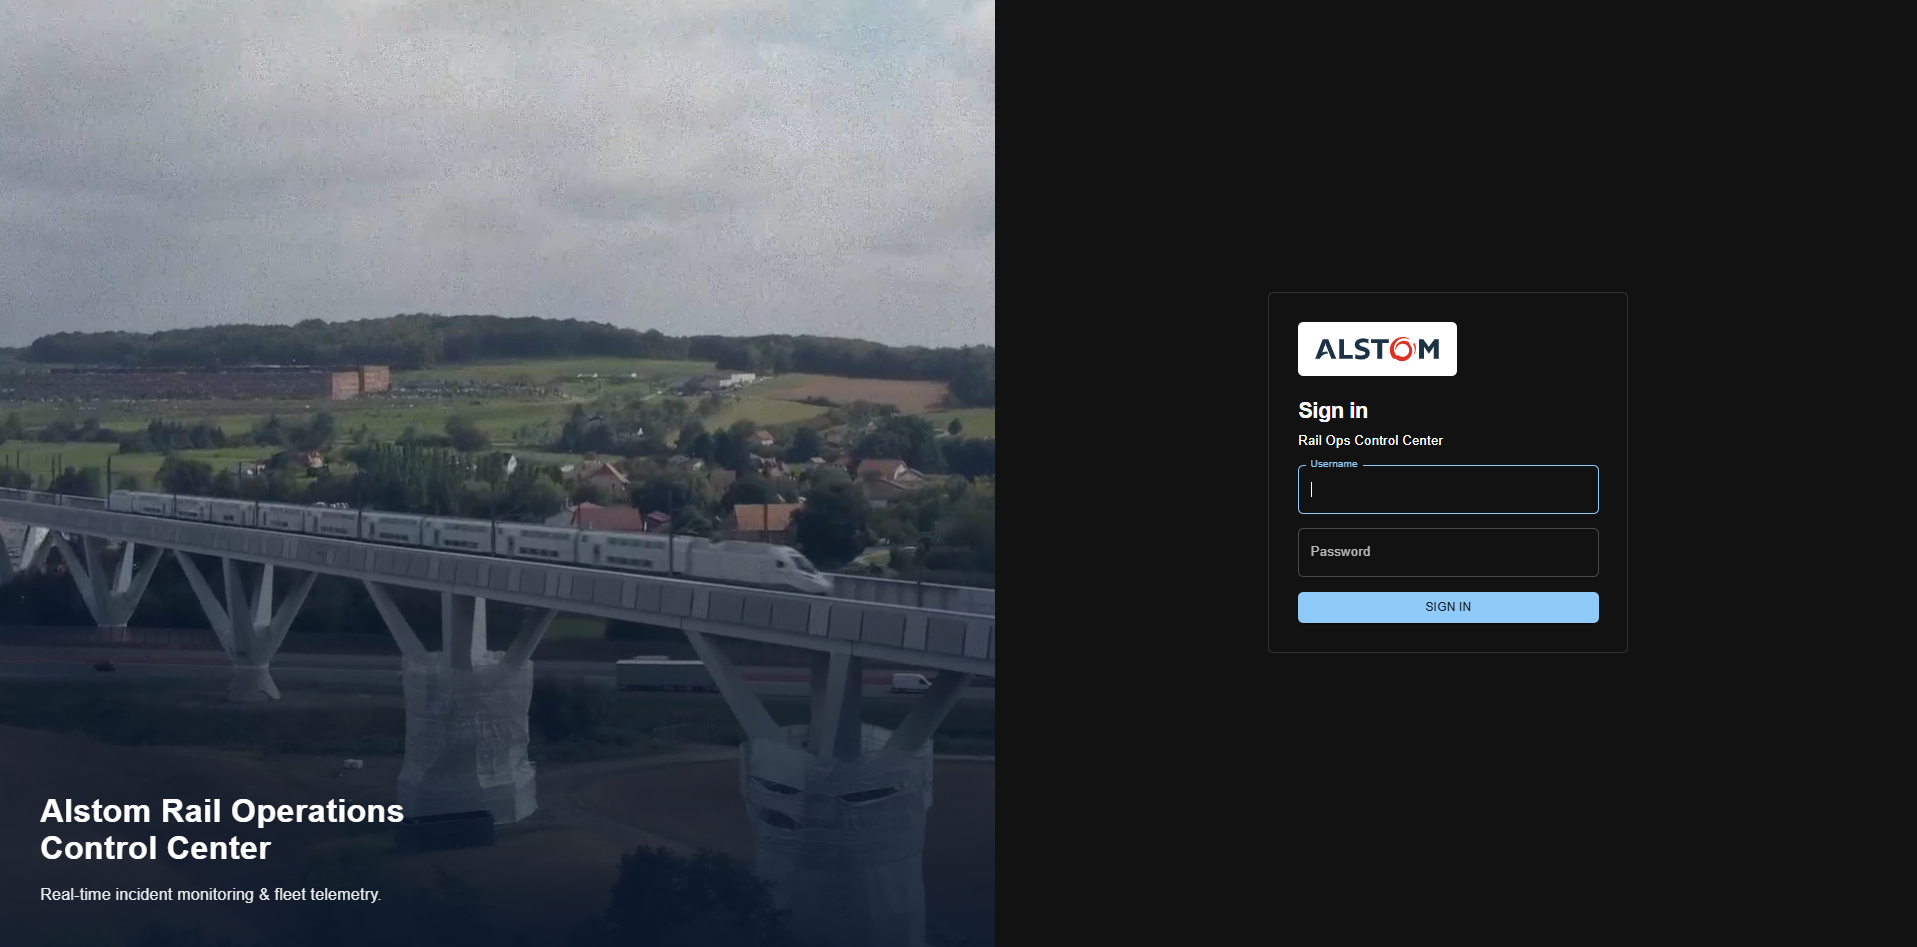
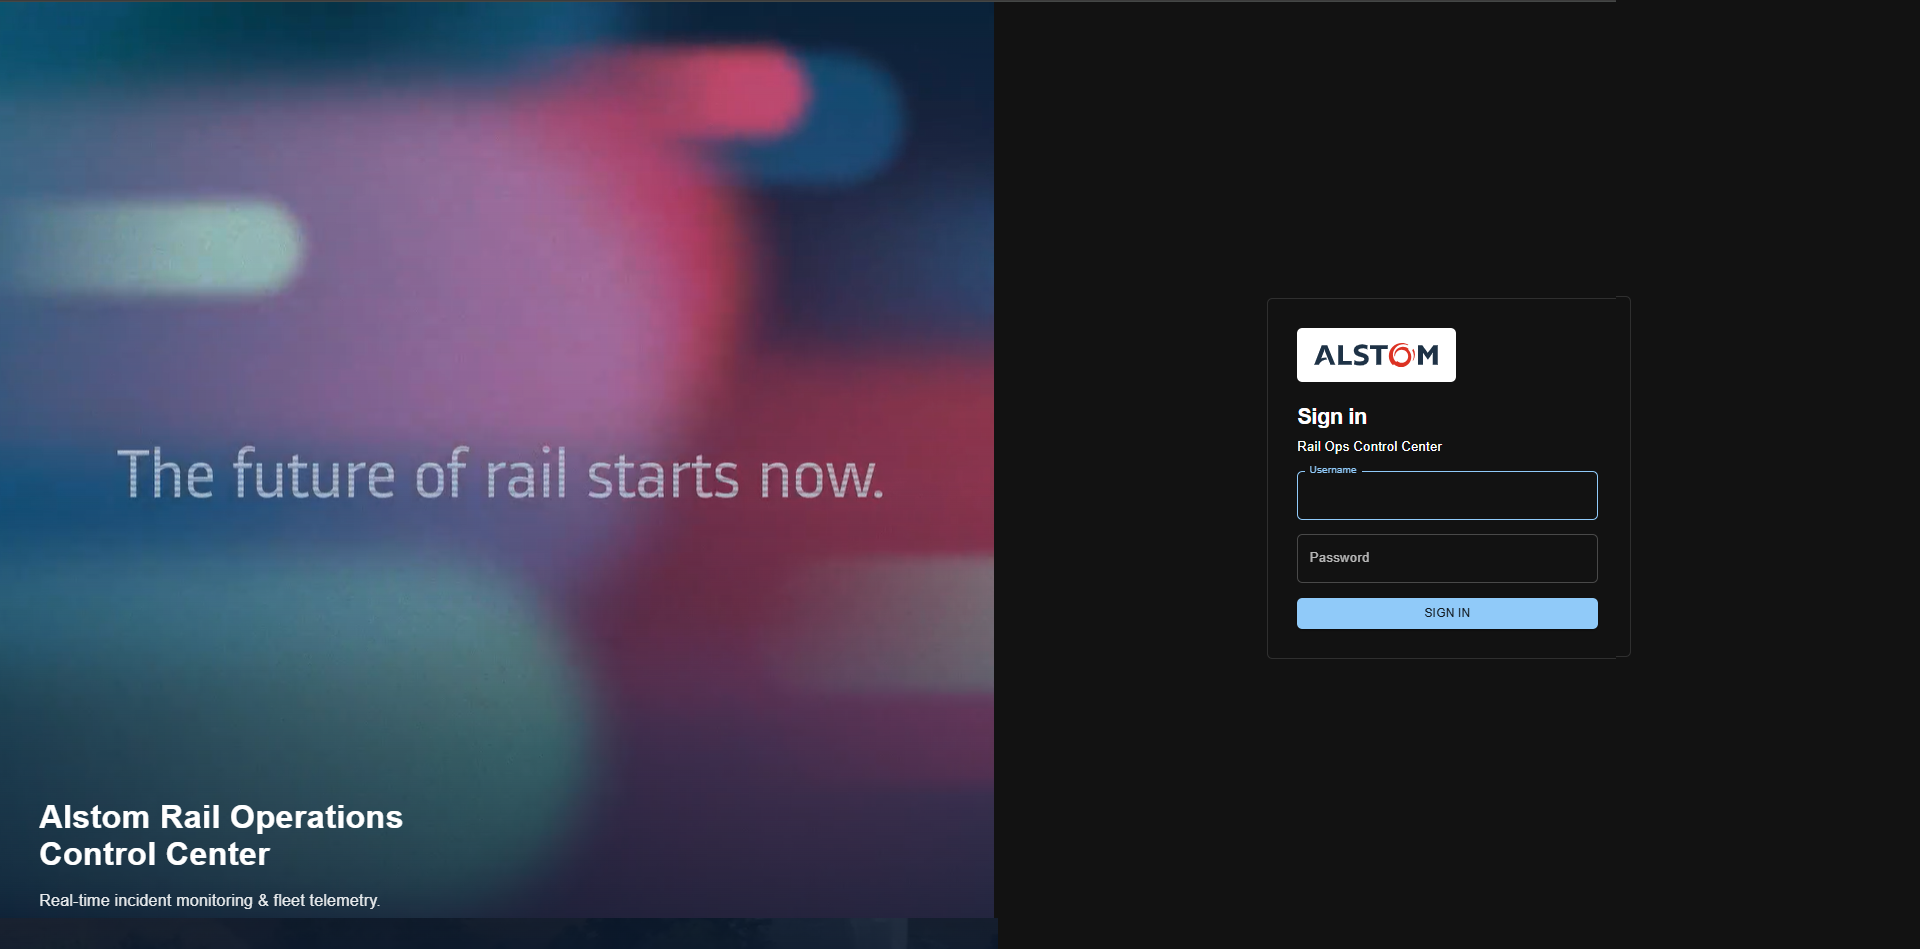
docs: refresh screenshots, add the sign-in page and real image names
- Retake the dashboard, events and services screenshots with the sign-in UI
- Add the sign-in page screenshot and explain why every service shows DOWN
- Use the real GHCR image names in the publishing section
- Note that event filters accept a single value each

diff --git a/README.md b/README.md
@@ -25,12 +25,17 @@ Redis live state, and a React dashboard shows service health and incidents live.
 
 ## Screenshots
 
-Captured from the running stack after several bursts of generated events, so
-every service shows `DOWN` and the counts are large. Times use the browser's locale.
+Captured from the running stack after several thousand generated events, signed in
+as `admin`. Every service shows `DOWN` and the counts are large because the demo
+producer keeps creating incidents and nobody resolves them: one unresolved
+`CRITICAL` incident is enough to mark a service `DOWN` (see
+[Live service state (Redis)](#live-service-state-redis)). Times use the browser's locale.
+
+![Sign-in page in dark mode: the brand video panel on the left and the sign-in form on the right](docs/images/login.png)
 
 ![Dashboard in light mode: totals, service health cards, severity distribution, events over time and recent events](docs/images/dashboard.png)
 
-![Events page with the detail drawer of one event open, showing its fields and a Reopen action](docs/images/events-detail.png)
+![Events page with the detail drawer of one event open, showing its fields and the Acknowledge and Resolve actions](docs/images/events-detail.png)
 
 ![Services page listing each service's health, open and active counts, latest severity and last event time](docs/images/services.png)
 
@@ -283,14 +288,15 @@ secrets need to be set up.
 
 | Image | Tags |
 |---|---|
-| `ghcr.io/<owner>/<repo>-producer` | `latest`, `sha-<short commit>` |
-| `ghcr.io/<owner>/<repo>-backend` | `latest`, `sha-<short commit>` |
-| `ghcr.io/<owner>/<repo>-frontend` | `latest`, `sha-<short commit>` |
+| `ghcr.io/eminegules1/rail-ops-control-center-producer` | `latest`, `sha-<short commit>` |
+| `ghcr.io/eminegules1/rail-ops-control-center-backend` | `latest`, `sha-<short commit>` |
+| `ghcr.io/eminegules1/rail-ops-control-center-frontend` | `latest`, `sha-<short commit>` |
 
-`<owner>/<repo>` is the lowercased repository path. To pull one:
+Each name is the lowercased repository path (`eminegules1/rail-ops-control-center`)
+plus `-producer`, `-backend` or `-frontend`. To pull one:
 
 ```bash
-docker pull ghcr.io/<owner>/<repo>-backend:latest
+docker pull ghcr.io/eminegules1/rail-ops-control-center-backend:latest
 ```
 
 A package GitHub creates this way is private until you change its visibility in
@@ -461,6 +467,9 @@ Known limitations:
 - A Redis outage no longer sends events to the DLT: the event is stored in
   PostgreSQL, the Redis update is skipped, and the live state is rebuilt from
   PostgreSQL when Redis returns (see [Redis resilience](#redis-resilience)).
+- **Event filters take one value each.** Severity, status, source and service each
+  accept a single value; filtering several at once (for example `CRITICAL` and
+  `MAJOR`) is a possible future change.
 
 Inspect stored events:
 
